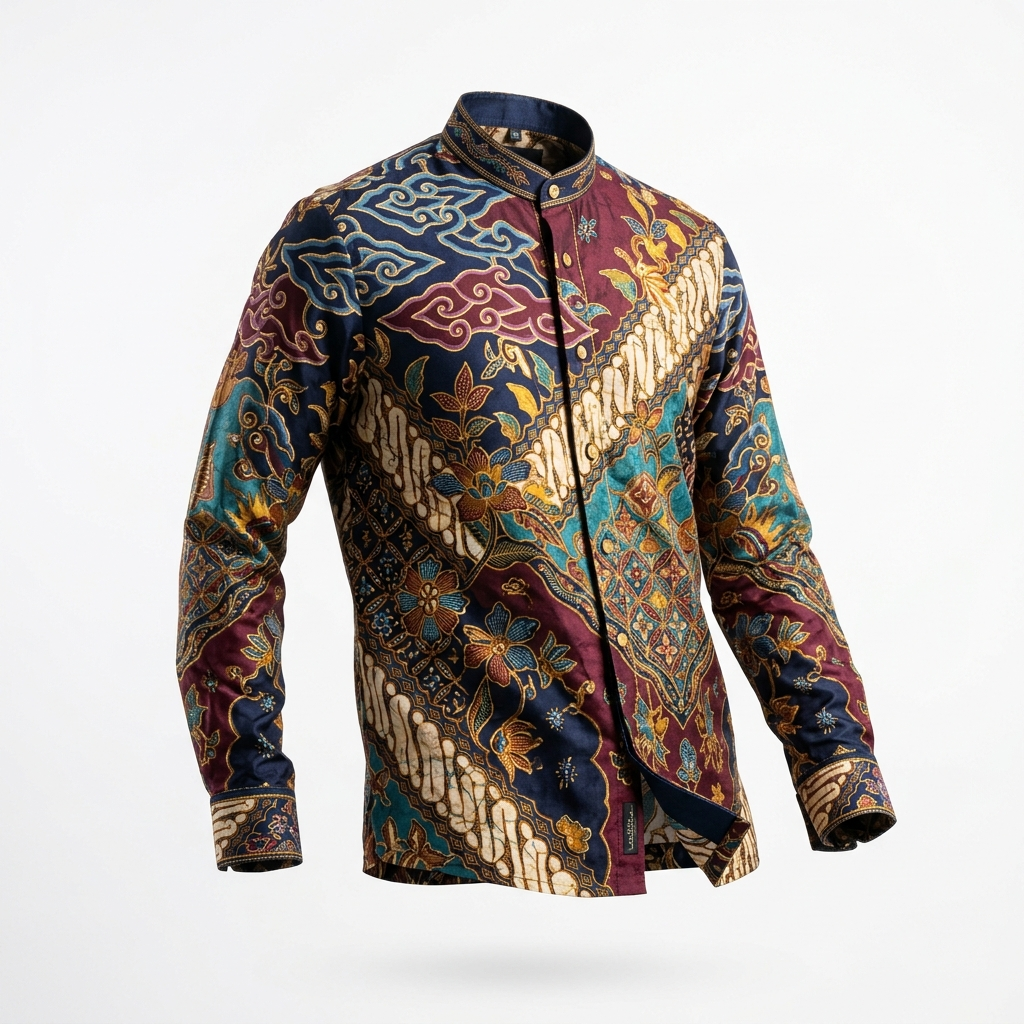
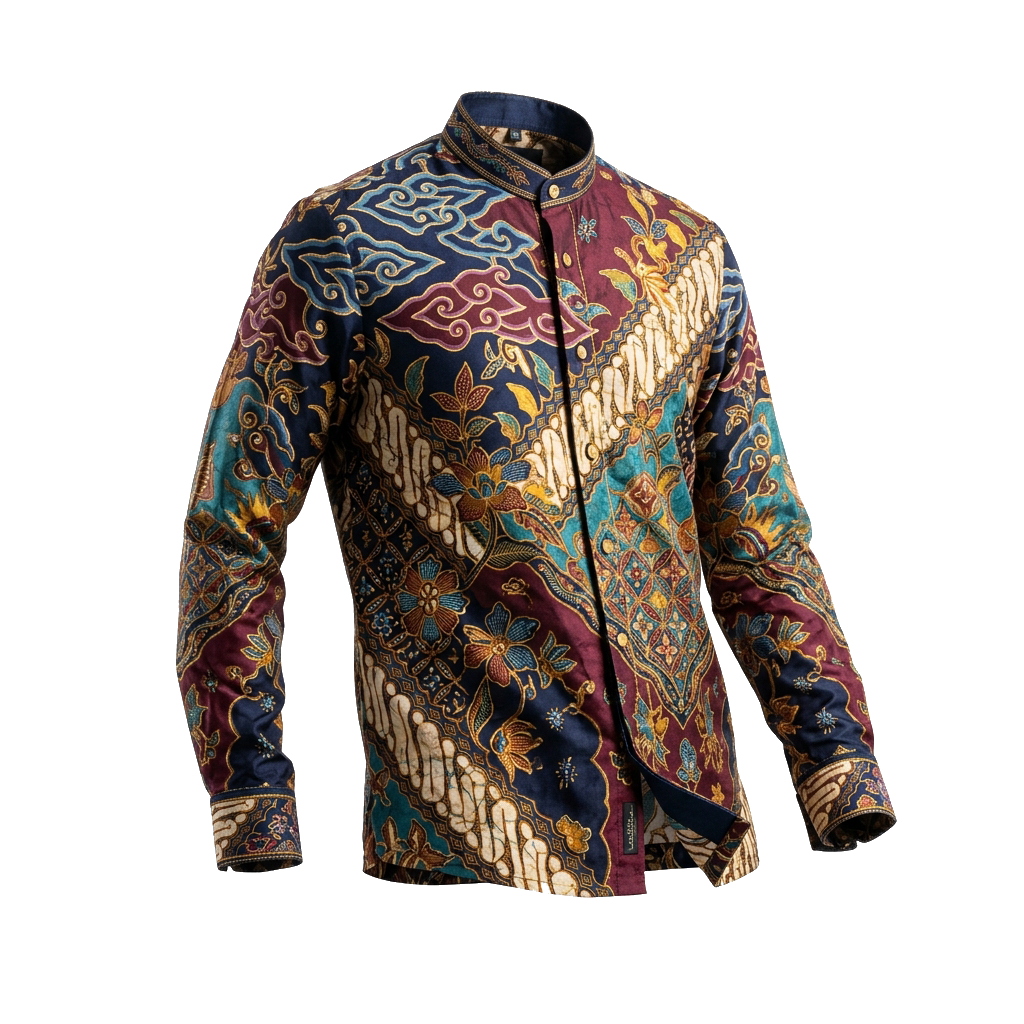
Optimize mobile scroll performance by removing heavy scroll-linked animations and converting centerpiece to transparent PNG

Changed region(s): [[0.375, 0.9062, 0.625, 0.9688], [0.0, 0.9062, 0.0625, 1.0]]

diff --git a/app/page.tsx b/app/page.tsx
@@ -64,95 +64,6 @@ interface CartItem {
   quantity: number;
 }
 
-// Helper to remove white background from the centerpiece image dynamically in client canvas
-function removeBackground(img: HTMLImageElement): string {
-  const canvas = document.createElement('canvas');
-  canvas.width = img.naturalWidth;
-  canvas.height = img.naturalHeight;
-  const ctx = canvas.getContext('2d');
-  if (!ctx) return img.src;
-  ctx.drawImage(img, 0, 0);
-  const imageData = ctx.getImageData(0, 0, canvas.width, canvas.height);
-  const data = imageData.data;
-  const width = canvas.width;
-  const height = canvas.height;
-  
-  // Flood fill visited array
-  const visited = new Uint8Array(width * height);
-  const queue: number[] = [];
-  
-  const pushPixel = (x: number, y: number) => {
-    const idx = y * width + x;
-    if (visited[idx]) return;
-    visited[idx] = 1;
-    queue.push(idx);
-  };
-  
-  // Push all boundary pixels
-  for (let x = 0; x < width; x++) {
-    pushPixel(x, 0);
-    pushPixel(x, height - 1);
-  }
-  for (let y = 0; y < height; y++) {
-    pushPixel(0, y);
-    pushPixel(width - 1, y);
-  }
-  
-  // BFS
-  let head = 0;
-  while (head < queue.length) {
-    const idx = queue[head++];
-    const x = idx % width;
-    const y = Math.floor(idx / width);
-    
-    const rIdx = idx * 4;
-    const r = data[rIdx];
-    const g = data[rIdx + 1];
-    const b = data[rIdx + 2];
-    
-    // If pixel is near-white (threshold > 190), make it transparent and propagate
-    if (r > 190 && g > 190 && b > 190) {
-      data[rIdx + 3] = 0; // Set alpha to 0
-      
-      // Propagate 4-way
-      if (x > 0) pushPixel(x - 1, y);
-      if (x < width - 1) pushPixel(x + 1, y);
-      if (y > 0) pushPixel(x, y - 1);
-      if (y < height - 1) pushPixel(x, y + 1);
-    }
-  }
-
-  // Second pass: Feather the edges of the background to remove white halos
-  for (let y = 1; y < height - 1; y++) {
-    for (let x = 1; x < width - 1; x++) {
-      const idx = y * width + x;
-      const rIdx = idx * 4;
-      
-      if (data[rIdx + 3] > 0) {
-        const hasTransparentNeighbor =
-          data[((y - 1) * width + x) * 4 + 3] === 0 ||
-          data[((y + 1) * width + x) * 4 + 3] === 0 ||
-          data[(y * width + (x - 1)) * 4 + 3] === 0 ||
-          data[(y * width + (x + 1)) * 4 + 3] === 0;
-
-        if (hasTransparentNeighbor) {
-          const r = data[rIdx];
-          const g = data[rIdx + 1];
-          const b = data[rIdx + 2];
-          const brightness = (r + g + b) / 3;
-          if (brightness > 150) {
-            const alphaFactor = (255 - brightness) / (255 - 150);
-            data[rIdx + 3] = Math.max(0, Math.min(255, Math.round(data[rIdx + 3] * alphaFactor)));
-          }
-        }
-      }
-    }
-  }
-  
-  ctx.putImageData(imageData, 0, 0);
-  return canvas.toDataURL('image/png');
-}
-
 export default function StorefrontPage() {
   const router = useRouter();
 
@@ -161,10 +72,7 @@ export default function StorefrontPage() {
     // Skip Lenis smooth scroll on touch/mobile screens to preserve native momentum scroll and save CPU
     const isTouch = "ontouchstart" in window || navigator.maxTouchPoints > 0 || window.innerWidth < 1024;
     if (isTouch) {
-      ScrollTrigger.addEventListener("refresh", () => ScrollTrigger.update());
-      return () => {
-        ScrollTrigger.removeEventListener("refresh", () => ScrollTrigger.update());
-      };
+      return;
     }
 
     const lenis = new Lenis({
@@ -422,94 +330,38 @@ export default function StorefrontPage() {
   }, [loadStoreData]);
 
   React.useEffect(() => {
-    // Skip CPU-heavy canvas background removal on mobile to prevent freeze/lag on load
-    if (window.innerWidth < 1024) return;
-
-    const img = new Image();
-    img.src = "/batik-center.png";
-    img.crossOrigin = "anonymous";
-    img.onload = () => {
-      try {
-        const transparentDataUrl = removeBackground(img);
-        setProcessedBatikSrc(transparentDataUrl);
-      } catch (e) {
-        console.error("Failed to remove image background", e);
-      }
-    };
-  }, []);
-
-  React.useEffect(() => {
     const marqueeEl = marqueeRef.current;
     if (!marqueeEl) return;
     
     // Start from -50% to have buffer on left and right
     gsap.set(marqueeEl, { xPercent: -50 });
     
-    // Tween from -50 to -25 to move to the right (speed increased and duration reduced to 7s)
+    // Tween from -50 to -25 to move to the right (speed adjusted to be clean and elegant)
     const tween = gsap.to(marqueeEl, {
       xPercent: -25,
       repeat: -1,
-      duration: 7,
+      duration: 10,
       ease: "none",
       paused: false
     });
     
     tweenRef.current = tween;
     
-    let isHoveredLocal = false;
-    let lastScrollTop = window.scrollY;
-    let scrollTimeout: NodeJS.Timeout;
-    
     const handleMouseEnter = () => {
-      isHoveredLocal = true;
       gsap.to(tween, { timeScale: 0, duration: 0.3, ease: "power2.out", overwrite: "auto" });
     };
     
     const handleMouseLeave = () => {
-      isHoveredLocal = false;
       gsap.to(tween, { timeScale: 1, duration: 0.5, ease: "power2.out", overwrite: "auto" });
-    };
-    
-    const handleScroll = () => {
-      if (isHoveredLocal) return;
-      
-      const scrollTop = window.scrollY;
-      const delta = scrollTop - lastScrollTop;
-      lastScrollTop = scrollTop;
-      
-      // Calculate velocity-based skew angle (clamp to max 12 degrees)
-      const maxSkew = 12;
-      const skewAmount = Math.min(Math.max(delta * 0.18, -maxSkew), maxSkew);
-      
-      // Animate skew on scroll
-      gsap.to(marqueeEl, { skewX: skewAmount, duration: 0.1, overwrite: "auto" });
-      
-      // Set timeScale directly instead of creating a new tween on every scroll tick
-      if (delta > 0) {
-        tween.timeScale(-2.8);
-      } else if (delta < 0) {
-        tween.timeScale(3.8);
-      }
-      
-      clearTimeout(scrollTimeout);
-      scrollTimeout = setTimeout(() => {
-        if (!isHoveredLocal) {
-          gsap.to(tween, { timeScale: 1, duration: 0.5, ease: "power1.out", overwrite: "auto" });
-          gsap.to(marqueeEl, { skewX: 0, duration: 0.4, ease: "power2.out", overwrite: "auto" });
-        }
-      }, 100);
     };
     
     marqueeEl.addEventListener("mouseenter", handleMouseEnter);
     marqueeEl.addEventListener("mouseleave", handleMouseLeave);
-    window.addEventListener("scroll", handleScroll, { passive: true });
     
     return () => {
       if (tween) tween.kill();
       marqueeEl.removeEventListener("mouseenter", handleMouseEnter);
       marqueeEl.removeEventListener("mouseleave", handleMouseLeave);
-      window.removeEventListener("scroll", handleScroll);
-      clearTimeout(scrollTimeout);
       gsap.killTweensOf(marqueeEl);
     };
   }, []);
@@ -574,23 +426,7 @@ export default function StorefrontPage() {
       "-=0.4"
     );
 
-    // 8. Scroll exit animation (starts after reveal is complete — skip on mobile for performance)
-    if (window.innerWidth >= 1024) {
-      tl.add(() => {
-        gsap.to(".hero-centerpiece", {
-          scale: 0.85,
-          opacity: 0,
-          y: -80,
-          scrollTrigger: {
-            trigger: "#hero-section",
-            start: "top top",
-            end: "bottom 30%",
-            scrub: true,
-            invalidateOnRefresh: true
-          }
-        });
-      });
-    }
+
 
     // 8. Collections ScrollTrigger Animation
     gsap.fromTo(
@@ -1041,7 +877,7 @@ export default function StorefrontPage() {
       </div>
 
       {/* Top Banner Navigation */}
-      <header ref={headerRef} className="fixed top-0 inset-x-0 z-40 w-full border-b border-zinc-200/50 bg-white/90 backdrop-blur-md">
+      <header ref={headerRef} className="fixed top-0 inset-x-0 z-40 w-full border-b border-zinc-200/50 bg-white md:bg-white/90 md:backdrop-blur-md">
         <div className="w-full max-w-[1800px] mx-auto px-4 sm:px-8 lg:px-12 h-16 flex items-center justify-between">
           <span 
             className="uppercase tracking-normal cursor-pointer select-none"
@@ -1200,7 +1036,7 @@ export default function StorefrontPage() {
       >
         {/* Soft yellow-lime radial gradient behind layout */}
         <div className="absolute inset-x-0 top-0 h-[65%] bg-[radial-gradient(ellipse_at_top,rgba(197,255,46,0.22)_0%,transparent_70%)] pointer-events-none -z-10" />
-        <div className="absolute top-1/2 left-1/2 -translate-x-1/2 -translate-y-1/2 w-[600px] h-[600px] bg-[#bef264]/10 rounded-full blur-[120px] pointer-events-none -z-10" />
+        <div className="absolute top-1/2 left-1/2 -translate-x-1/2 -translate-y-1/2 w-[600px] h-[600px] bg-[radial-gradient(circle,rgba(190,242,100,0.1)_0%,rgba(190,242,100,0)_70%)] rounded-full pointer-events-none -z-10" />
 
         {/* Big Background Typography (Placed below the header with custom spacing) */}
         <div className="w-full text-center pt-8 pb-4 relative z-0">
@@ -1238,7 +1074,7 @@ export default function StorefrontPage() {
         <div className="absolute left-1/2 top-[56%] -translate-x-1/2 -translate-y-1/2 z-10 pointer-events-none select-none">
           <div className="relative hero-centerpiece-container">
             {/* Ambient product glow */}
-            <div className="absolute top-1/2 left-1/2 -translate-x-1/2 -translate-y-1/2 w-[400px] h-[400px] bg-[#bef264]/20 rounded-full blur-[100px] opacity-75 pointer-events-none" />
+            <div className="absolute top-1/2 left-1/2 -translate-x-1/2 -translate-y-1/2 w-[400px] h-[400px] bg-[radial-gradient(circle,rgba(190,242,100,0.25)_0%,rgba(190,242,100,0)_70%)] rounded-full opacity-75 pointer-events-none" />
             <img 
               src={processedBatikSrc} 
               alt="BERAKIT SERIES Centerpiece" 
@@ -2356,8 +2192,8 @@ export default function StorefrontPage() {
             className="w-full bg-zinc-950 rounded-[32px] p-8 sm:p-12 lg:p-16 relative overflow-hidden flex flex-col lg:flex-row items-center justify-between gap-12 border border-zinc-800 shadow-2xl"
           >
             {/* Subtle background gradient glow */}
-            <div className="absolute right-0 top-0 w-[500px] h-[500px] bg-[#bef264]/10 rounded-full blur-[120px] pointer-events-none" />
-            <div className="absolute left-0 bottom-0 w-[300px] h-[300px] bg-zinc-800/20 rounded-full blur-[80px] pointer-events-none" />
+            <div className="absolute right-0 top-0 w-[500px] h-[500px] bg-[radial-gradient(circle,rgba(190,242,100,0.1)_0%,rgba(190,242,100,0)_70%)] rounded-full pointer-events-none" />
+            <div className="absolute left-0 bottom-0 w-[300px] h-[300px] bg-[radial-gradient(circle,rgba(63,63,70,0.2)_0%,rgba(63,63,70,0)_70%)] rounded-full pointer-events-none" />
 
             {/* Left Column: Heading */}
             <div className="w-full lg:max-w-xl text-left space-y-2 relative z-10">

diff --git a/app/gallery/page.tsx b/app/gallery/page.tsx
@@ -171,10 +171,7 @@ export default function GalleryPage() {
     // Skip Lenis smooth scroll on touch/mobile screens to preserve native momentum scroll and save CPU
     const isTouch = "ontouchstart" in window || navigator.maxTouchPoints > 0 || window.innerWidth < 1024;
     if (isTouch) {
-      ScrollTrigger.addEventListener("refresh", () => ScrollTrigger.update());
-      return () => {
-        ScrollTrigger.removeEventListener("refresh", () => ScrollTrigger.update());
-      };
+      return;
     }
 
     const lenis = new Lenis({